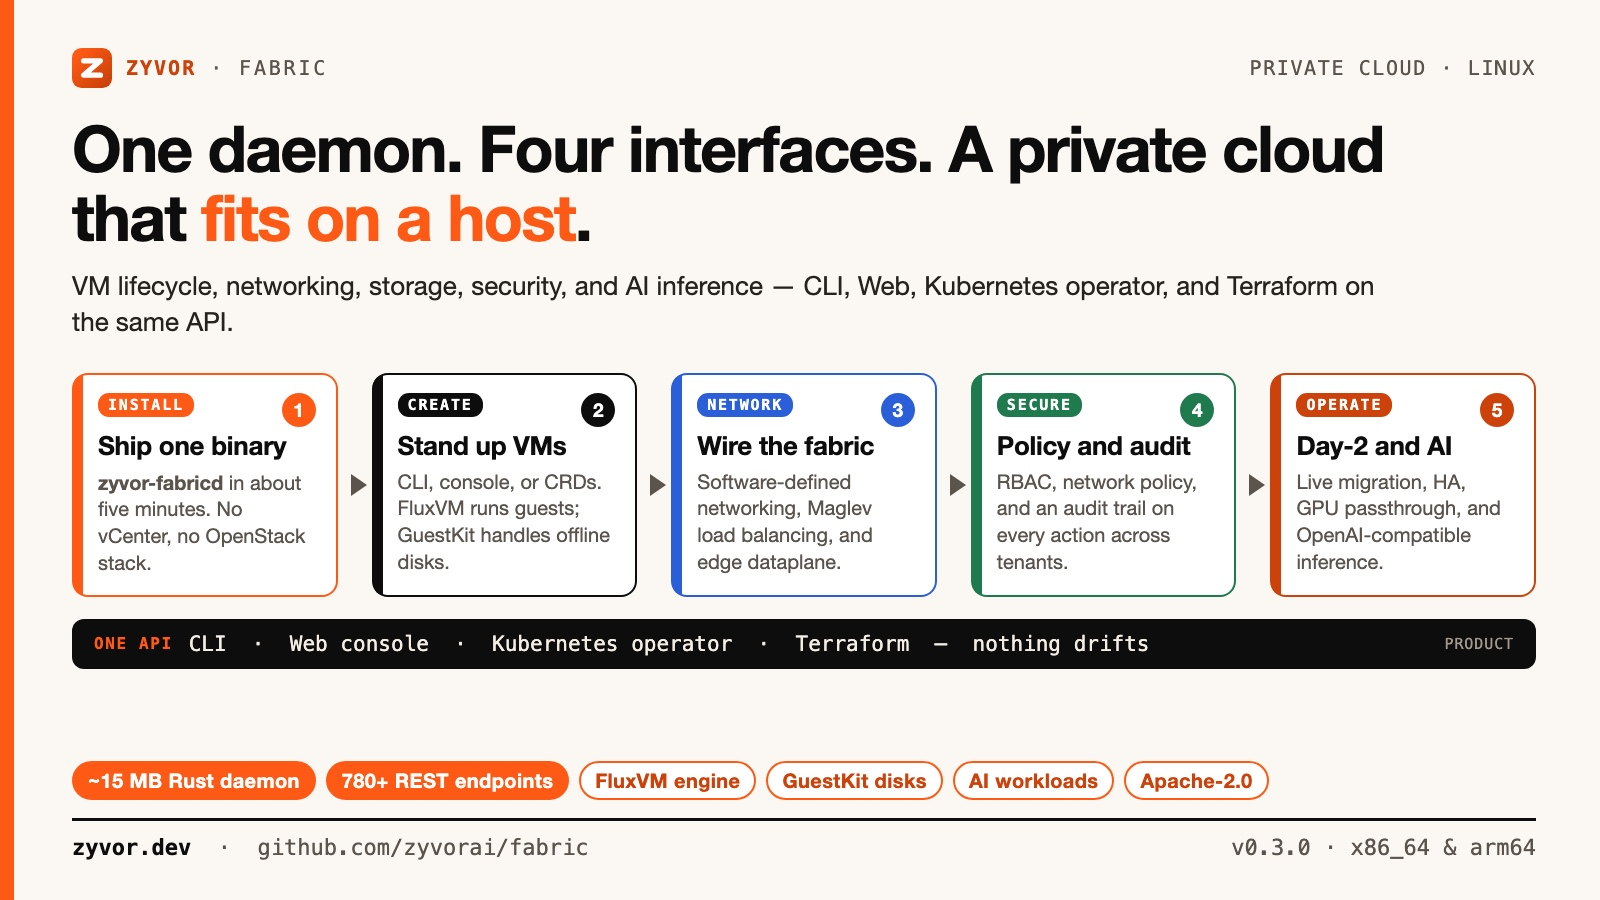
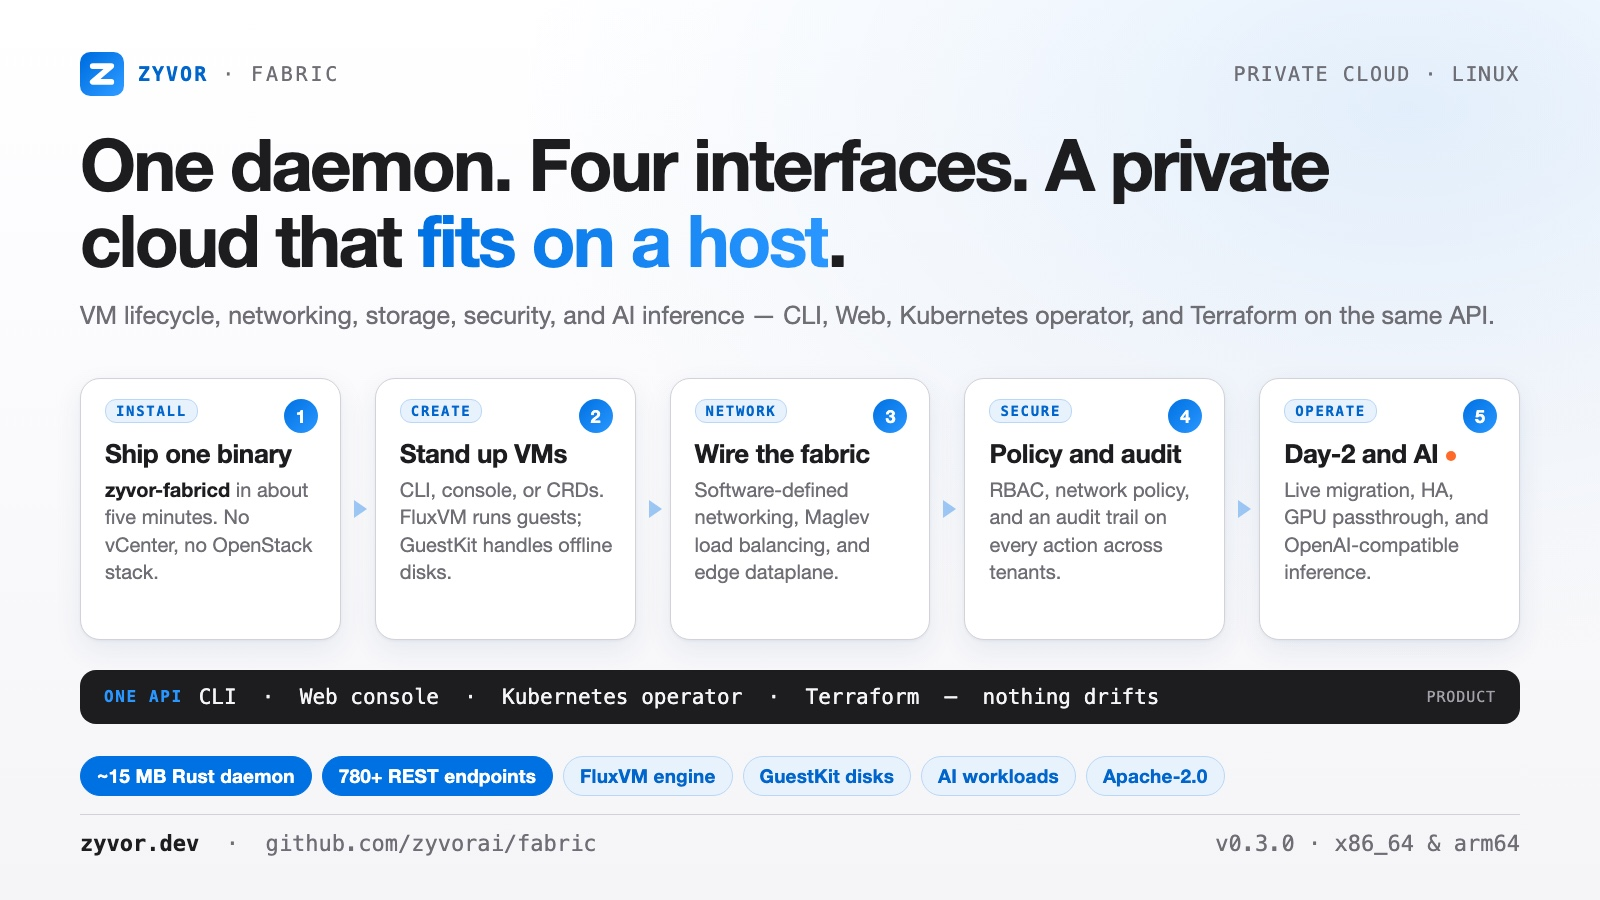
docs(social): apple-style blue/white cards, dark variant, build script
Restyle the 1200x630 share card and the 1600x900 brochure card in the blue/white
palette (orange only as one small dot), add fabric-share-card-dark for the README
<picture>, render it from build-social-card.sh, and keep the website Open Graph
copy byte-identical to the light share PNG.

Changed region(s): [[0.0, 0.0, 0.9688, 1.0]]

diff --git a/docs/social/fabric-social-card.html b/docs/social/fabric-social-card.html
@@ -5,25 +5,28 @@
 <title>Fabric social card</title>
 <!--
   1600x900 (16:9) card for LinkedIn and X, in the suite brochure look.
+  Palette: white / #f5f5f7, ink #1d1d1f, blue #0071e3 -> #2997ff, hairline #d2d2d7.
+  Orange appears once, as the dot beside "AI" in the last step.
   Build:  ./docs/social/build-social-card.sh   ->  fabric-social-card.jpg
 -->
 <style>
   :root {
-    --ink: #0d0d0c; --soft: #5a544c; --signal: #ff5a15; --deep: #cc420a;
-    --line: #e7ded2; --warm: #fbf7f2; --pale: #fff1e9;
-    --blue: #2b5fd9; --green: #1f7a4d;
+    --ink: #1d1d1f; --soft: #6e6e73; --hair: #d2d2d7; --wash: #f5f5f7;
+    --blue: #0071e3; --blue2: #2997ff; --deep: #0066cc;
+    --pill-bg: #e8f2fd; --pill-line: #b9d7f7;
     --sans: 'Helvetica Neue', Helvetica, Arial, sans-serif;
     --mono: 'SF Mono', Menlo, Consolas, monospace;
   }
   * { box-sizing: border-box; }
   html, body { margin: 0; padding: 0; }
   body {
-    width: 1600px; height: 900px; overflow: hidden;
-    background: var(--warm); color: var(--ink); font-family: var(--sans); position: relative;
+    width: 1600px; height: 900px; overflow: hidden; color: var(--ink); font-family: var(--sans); position: relative;
+    background:
+      radial-gradient(900px 560px at 88% 12%, rgba(0, 113, 227, 0.11), rgba(0, 113, 227, 0.04) 55%, rgba(0, 113, 227, 0) 100%),
+      linear-gradient(180deg, #ffffff 0%, var(--wash) 100%);
   }
-  .bar { position: absolute; left: 0; top: 0; bottom: 0; width: 14px; background: var(--signal); }
   .wrap {
-    position: absolute; left: 72px; right: 64px; top: 48px; bottom: 40px;
+    position: absolute; left: 80px; right: 80px; top: 52px; bottom: 44px;
     display: flex; flex-direction: column;
   }
 
@@ -32,66 +35,66 @@
     font-family: var(--mono); font-size: 20px; letter-spacing: 0.14em;
     text-transform: uppercase; color: var(--soft);
   }
-  .top img { height: 40px; }
+  .top svg { width: 44px; height: 44px; display: block; }
   .top b { color: var(--deep); letter-spacing: 0.1em; }
   .top .r { margin-left: auto; letter-spacing: 0.08em; }
 
   h1 {
-    margin: 26px 0 0; font-size: 64px; line-height: 1.08;
-    letter-spacing: -0.025em; font-weight: 700; max-width: 1440px;
+    margin: 30px 0 0; font-size: 72px; line-height: 1.06;
+    letter-spacing: -0.035em; font-weight: 700; max-width: 1440px;
   }
-  h1 em { font-style: normal; color: var(--signal); }
+  h1 em {
+    font-style: normal;
+    background: linear-gradient(90deg, var(--blue), var(--blue2));
+    -webkit-background-clip: text; background-clip: text; color: transparent;
+  }
   .sub {
-    margin: 16px 0 0; font-size: 26px; line-height: 1.36;
-    color: #26231f; max-width: 1320px;
+    margin: 18px 0 0; font-size: 25px; line-height: 1.4;
+    color: var(--soft); max-width: 1440px;
   }
 
-  .flow { margin-top: 34px; display: grid; grid-template-columns: repeat(5, 1fr); gap: 34px; }
+  .flow { margin-top: 46px; display: grid; grid-template-columns: repeat(5, 1fr); gap: 34px; }
   .step {
-    position: relative; background: #fff; border: 2.5px solid var(--c);
-    border-radius: 16px; padding: 18px 20px 18px 24px; min-height: 222px;
-  }
-  .step::before {
-    content: ""; position: absolute; left: 0; top: 0; bottom: 0; width: 9px;
-    background: var(--c); border-radius: 13px 0 0 13px;
+    position: relative; background: #fff; border: 1px solid var(--hair);
+    border-radius: 20px; padding: 20px 22px 20px 24px; min-height: 262px;
+    box-shadow: 0 10px 28px rgba(10, 61, 122, 0.08), 0 1px 3px rgba(10, 61, 122, 0.06);
   }
   .step:not(:last-child)::after {
-    content: ""; position: absolute; right: -31px; top: 50%; width: 0; height: 0; margin-top: -11px;
-    border-left: 16px solid var(--soft); border-top: 11px solid transparent; border-bottom: 11px solid transparent;
+    content: ""; position: absolute; right: -27px; top: 50%; width: 0; height: 0; margin-top: -9px;
+    border-left: 13px solid #9dc8f5; border-top: 9px solid transparent; border-bottom: 9px solid transparent;
   }
   .lane {
-    display: inline-block; font-family: var(--mono); font-size: 15px; font-weight: 700;
-    letter-spacing: 0.12em; color: #fff; background: var(--c); padding: 3px 10px; border-radius: 11px;
+    display: inline-block; font-family: var(--mono); font-size: 14px; font-weight: 700;
+    letter-spacing: 0.12em; color: var(--deep); background: var(--pill-bg);
+    border: 1px solid var(--pill-line); padding: 3px 10px; border-radius: 11px;
   }
   .n {
     float: right; width: 34px; height: 34px; border-radius: 50%;
-    background: var(--c); color: #fff; font-weight: 700; font-size: 19px; line-height: 34px; text-align: center;
+    background: linear-gradient(135deg, var(--blue), var(--blue2));
+    color: #fff; font-weight: 700; font-size: 18px; line-height: 34px; text-align: center;
   }
-  .step h3 { margin: 14px 0 8px; font-size: 26px; line-height: 1.14; letter-spacing: -0.01em; }
-  .step p { margin: 0; font-size: 20px; line-height: 1.34; color: var(--soft); }
-  .k { --c: var(--signal); }
-  .a { --c: var(--ink); }
-  .c { --c: var(--blue); }
-  .o { --c: var(--green); }
-  .o2 { --c: var(--deep); }
+  .step h3 { margin: 16px 0 8px; font-size: 26px; line-height: 1.14; letter-spacing: -0.015em; }
+  .step p { margin: 0; font-size: 20px; line-height: 1.36; color: var(--soft); }
+  .step p b { color: var(--ink); }
+  .dot { display: inline-block; width: 10px; height: 10px; border-radius: 50%; background: #ff6a2a; margin-left: 8px; vertical-align: 2px; }
 
   .attr {
-    margin-top: 22px; display: flex; align-items: center; gap: 16px;
-    background: var(--ink); color: #f3ede4; border-radius: 12px;
-    padding: 13px 22px; font-family: var(--mono); font-size: 21px; white-space: nowrap;
+    margin-top: 30px; display: flex; align-items: center; gap: 16px;
+    background: var(--ink); color: #f5f5f7; border-radius: 16px;
+    padding: 15px 24px; font-family: var(--mono); font-size: 21px; white-space: nowrap;
   }
-  .attr .tag { color: var(--signal); font-weight: 700; letter-spacing: 0.1em; font-size: 16px; }
-  .attr .why { margin-left: auto; color: #a39a8d; font-size: 15px; letter-spacing: 0.06em; text-transform: uppercase; }
+  .attr .tag { color: var(--blue2); font-weight: 700; letter-spacing: 0.1em; font-size: 16px; }
+  .attr .why { margin-left: auto; color: #a1a1a6; font-size: 15px; letter-spacing: 0.06em; text-transform: uppercase; }
 
   .chips { margin-top: auto; padding-top: 22px; display: flex; flex-wrap: wrap; gap: 10px; }
   .chip {
-    font-size: 20px; font-weight: 700; padding: 5px 14px; border-radius: 20px;
-    background: var(--signal); color: #fff; letter-spacing: 0.02em; border: 2px solid var(--signal);
+    font-size: 19px; font-weight: 700; padding: 7px 16px; border-radius: 22px;
+    background: var(--blue); color: #fff; letter-spacing: 0.01em; border: 1.5px solid var(--blue);
   }
-  .chip.g { background: #fff; color: var(--deep); border: 2px solid var(--signal); }
+  .chip.g { background: var(--pill-bg); color: var(--deep); border: 1.5px solid var(--pill-line); }
 
   .foot {
-    margin-top: 18px; padding-top: 14px; border-top: 3px solid var(--ink);
+    margin-top: 18px; padding-top: 16px; border-top: 1px solid var(--hair);
     display: flex; align-items: center; font-family: var(--mono); font-size: 22px; color: var(--soft);
   }
   .foot b { color: var(--ink); }
@@ -99,10 +102,14 @@
 </style>
 </head>
 <body>
-<div class="bar"></div>
 <div class="wrap">
   <div class="top">
-    <img src="../../web/public/zyvor-favicon.svg" alt="">
+    <svg viewBox="0 0 64 64" role="img" aria-label="Zyvor">
+      <defs><linearGradient id="z" x1="8" y1="8" x2="56" y2="56" gradientUnits="userSpaceOnUse">
+        <stop offset="0" stop-color="#0071e3"/><stop offset="1" stop-color="#2997ff"/></linearGradient></defs>
+      <rect width="64" height="64" rx="15" fill="url(#z)"/>
+      <path d="M18.5,20.5 45.5,20.5 18.5,43.5 45.5,43.5" fill="none" stroke="#fff" stroke-width="8.3" stroke-linecap="round" stroke-linejoin="round"/>
+    </svg>
     <b>Zyvor</b><span>&middot;</span><span>Fabric</span>
     <span class="r">Private cloud &middot; Linux</span>
   </div>
@@ -111,16 +118,16 @@
   <p class="sub">VM lifecycle, networking, storage, security, and AI inference — CLI, Web, Kubernetes operator, and Terraform on the same API.</p>
 
   <div class="flow">
-    <div class="step k"><span class="lane">INSTALL</span><span class="n">1</span>
+    <div class="step"><span class="lane">INSTALL</span><span class="n">1</span>
       <h3>Ship one binary</h3><p><b>zyvor-fabricd</b> in about five minutes. No vCenter, no OpenStack stack.</p></div>
-    <div class="step a"><span class="lane">CREATE</span><span class="n">2</span>
+    <div class="step"><span class="lane">CREATE</span><span class="n">2</span>
       <h3>Stand up VMs</h3><p>CLI, console, or CRDs. FluxVM runs guests; GuestKit handles offline disks.</p></div>
-    <div class="step c"><span class="lane">NETWORK</span><span class="n">3</span>
+    <div class="step"><span class="lane">NETWORK</span><span class="n">3</span>
       <h3>Wire the fabric</h3><p>Software-defined networking, Maglev load balancing, and edge dataplane.</p></div>
-    <div class="step o"><span class="lane">SECURE</span><span class="n">4</span>
+    <div class="step"><span class="lane">SECURE</span><span class="n">4</span>
       <h3>Policy and audit</h3><p>RBAC, network policy, and an audit trail on every action across tenants.</p></div>
-    <div class="step o2"><span class="lane">OPERATE</span><span class="n">5</span>
-      <h3>Day-2 and AI</h3><p>Live migration, HA, GPU passthrough, and OpenAI-compatible inference.</p></div>
+    <div class="step"><span class="lane">OPERATE</span><span class="n">5</span>
+      <h3>Day-2 and AI<span class="dot"></span></h3><p>Live migration, HA, GPU passthrough, and OpenAI-compatible inference.</p></div>
   </div>
 
   <div class="attr">

diff --git a/docs/social/fabric-share-card-dark.html b/docs/social/fabric-share-card-dark.html
@@ -2,31 +2,31 @@
 <html lang="en">
 <head>
 <meta charset="utf-8">
-<title>Fabric share card</title>
+<title>Fabric share card (dark)</title>
 <!--
   1200x630 card: README hero and website Open Graph (website/static/img/social-card.png).
-  Light variant; fabric-share-card-dark.html is the dark twin used by the README <picture>.
-  Palette: white / #f5f5f7, ink #1d1d1f, blue #0071e3 -> #2997ff, hairline #d2d2d7.
+  Dark twin of fabric-share-card.html, used by the README <picture> for dark themes (not the website OG).
+  Palette: #000 / #0b0b0f, text #f5f5f7, cards #1d1d1f, blue #2997ff.
   Orange appears once, as the dot on the AI node.
   Build:  ./docs/social/build-social-card.sh
 -->
 <style>
   :root {
-    --bg: #ffffff;
-    --wash: #f5f5f7;
-    --ink: #1d1d1f;
-    --soft: #6e6e73;
-    --hair: #d2d2d7;
-    --blue: #0071e3;
+    --bg: #000000;
+    --wash: #0b0b0f;
+    --ink: #f5f5f7;
+    --soft: #a1a1a6;
+    --hair: #2c2c2e;
+    --blue: #0a84ff;
     --blue2: #2997ff;
-    --deep: #0066cc;
-    --pill-bg: #e8f2fd;
-    --pill-line: #b9d7f7;
+    --deep: #64b0ff;
+    --pill-bg: #0d2238;
+    --pill-line: #1c3d63;
     --node-fill: #ffffff;
     --node-line: #c7d9ef;
     --hub-fill: #ffffff;
     --hub-line: #cfe2f8;
-    --glow: rgba(0, 113, 227, 0.12);
+    --glow: rgba(41, 151, 255, 0.20);
     --sans: 'Helvetica Neue', Helvetica, Arial, sans-serif;
     --mono: 'SF Mono', Menlo, Consolas, monospace;
   }
@@ -35,7 +35,7 @@
   .card {
     position: relative; width: 1200px; height: 630px;
     background:
-      radial-gradient(520px 460px at 900px 315px, var(--glow), rgba(0, 113, 227, 0.04) 60%, rgba(0, 113, 227, 0) 100%),
+      radial-gradient(520px 460px at 900px 315px, var(--glow), rgba(41, 151, 255, 0.05) 60%, rgba(41, 151, 255, 0) 100%),
       linear-gradient(180deg, var(--bg) 0%, var(--wash) 100%);
     color: var(--ink); font-family: var(--sans);
   }
@@ -91,17 +91,17 @@
   <svg class="art" width="600" height="630" viewBox="0 0 600 630" xmlns="http://www.w3.org/2000/svg">
     <defs>
       <linearGradient id="hex" x1="268" y1="278" x2="332" y2="352" gradientUnits="userSpaceOnUse">
-        <stop offset="0" stop-color="#0071e3"/><stop offset="1" stop-color="#2997ff"/>
+        <stop offset="0" stop-color="#2997ff"/><stop offset="1" stop-color="#64b0ff"/>
       </linearGradient>
       <filter id="shadow" x="-30%" y="-30%" width="160%" height="170%">
-        <feDropShadow dx="0" dy="6" stdDeviation="9" flood-color="#0a3d7a" flood-opacity="0.16"/>
+        <feDropShadow dx="0" dy="6" stdDeviation="9" flood-color="#000000" flood-opacity="0.55"/>
       </filter>
       <filter id="shadow-s" x="-60%" y="-60%" width="220%" height="240%">
-        <feDropShadow dx="0" dy="3" stdDeviation="4" flood-color="#0a3d7a" flood-opacity="0.16"/>
+        <feDropShadow dx="0" dy="3" stdDeviation="4" flood-color="#000000" flood-opacity="0.55"/>
       </filter>
     </defs>
-    <g id="spokes" stroke="#2997ff" stroke-opacity=".55" stroke-width="1.8" stroke-linecap="round"></g>
-    <circle cx="300" cy="315" r="76" fill="#ffffff" stroke="#cfe2f8" stroke-width="2" filter="url(#shadow)"/>
+    <g id="spokes" stroke="#2997ff" stroke-opacity=".6" stroke-width="1.8" stroke-linecap="round"></g>
+    <circle cx="300" cy="315" r="76" fill="#1d1d1f" stroke="#2f4a6b" stroke-width="2" filter="url(#shadow)"/>
     <circle cx="300" cy="315" r="52" fill="none" stroke="#2997ff" stroke-opacity=".35" stroke-width="2"/>
     <polygon points="300,278 332,296 332,334 300,352 268,334 268,296"
       fill="none" stroke="url(#hex)" stroke-width="3" stroke-linejoin="round"/>
@@ -136,8 +136,8 @@
     const [x1, y1] = pt(n.deg, 80);
     const [x2, y2] = pt(n.deg, 166);
     el('line', { x1, y1, x2, y2 }, spokes);
-    el('circle', { cx: x2, cy: y2, r: 12, fill: '#ffffff', stroke: '#c7d9ef', 'stroke-width': 1.5, filter: 'url(#shadow-s)' }, dots);
-    el('circle', { cx: x2, cy: y2, r: 4.5, fill: n.hot ? '#ff6a2a' : '#0071e3' }, dots);
+    el('circle', { cx: x2, cy: y2, r: 12, fill: '#1d1d1f', stroke: '#33507a', 'stroke-width': 1.5, filter: 'url(#shadow-s)' }, dots);
+    el('circle', { cx: x2, cy: y2, r: 4.5, fill: n.hot ? '#ff6a2a' : '#2997ff' }, dots);
     // Side nodes get their label beside the node, top/bottom nodes above/below it.
     const c = Math.cos(n.deg * Math.PI / 180);
     let tx, ty, anchor;

diff --git a/docs/social/README.md b/docs/social/README.md
@@ -2,9 +2,35 @@
 
 | File | What it is | Rebuild |
 |---|---|---|
-| `fabric-share-card.html` / `.png` | 1200×630 card: README hero and the website Open Graph image (`website/static/img/social-card.png`, kept byte-identical) | `./docs/social/build-social-card.sh` |
+| `fabric-share-card.html` / `.png` | 1200×630 light card: README hero (light theme) and the website Open Graph image (`website/static/img/social-card.png`, kept byte-identical) | `./docs/social/build-social-card.sh` |
+| `fabric-share-card-dark.html` / `.png` | 1200×630 dark twin, used by the README `<picture>` on dark themes. **Not** copied to the website | same script |
 | `fabric-social-card.html` / `.jpg` | 1600×900 (16:9) card for LinkedIn and X, in the suite brochure look: install → create → network → secure → operate | same script |
 
 Needs Google Chrome and macOS `sips` (nothing to install). Override the browser with `CHROME=/path/to/chrome`.
 
-Copy follows [docs/POSITIONING.md](../POSITIONING.md) and the project README. Licence wording follows `LICENSE` (Apache-2.0).
+```bash
+./docs/social/build-social-card.sh
+cmp docs/social/fabric-share-card.png website/static/img/social-card.png   # must be identical
+```
+
+## Palette (apple.com blue / white)
+
+| Role | Light | Dark |
+|---|---|---|
+| Background | `#ffffff` → `#f5f5f7`, subtle blue radial wash | `#000000` → `#0b0b0f`, blue wash |
+| Text | ink `#1d1d1f`, secondary `#6e6e73` | `#f5f5f7`, `#a1a1a6` |
+| Blue | `#0071e3` → `#2997ff` (accent text `#0066cc`) | `#0a84ff` → `#64b0ff` |
+| Cards / hairline | white, `#d2d2d7`, soft blue-tinted shadow | `#1d1d1f`, `#2c2c2e` |
+
+Orange `#ff6a2a` appears exactly once per card: the dot on the AI node (share cards) and beside "AI" in the last step
+(brochure card). The brochure card uses an inline blue Zyvor mark instead of the orange favicon so no other orange is
+introduced. Type is Helvetica Neue with Menlo for labels.
+
+Copy follows [docs/POSITIONING.md](../POSITIONING.md) and the project README. The version string (`v0.3.0`) matches
+`backend/Cargo.toml` and the `zyvor-fabric/v0.3.0` tag; update it in all three HTML files when releasing. Licence
+wording follows `LICENSE` (Apache-2.0).
+
+## GitHub social preview
+
+The repository's "Social preview" image (Settings → Social preview) cannot be set through the API or `gh`. After
+merging a redesign, upload `docs/social/fabric-share-card.png` there by hand.
